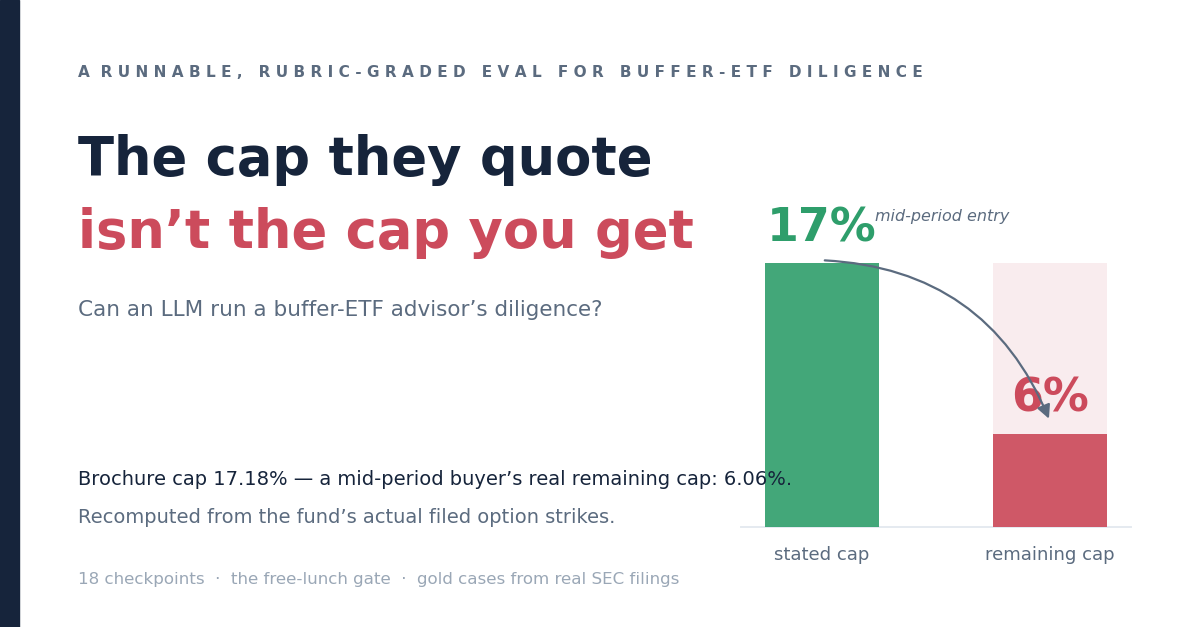
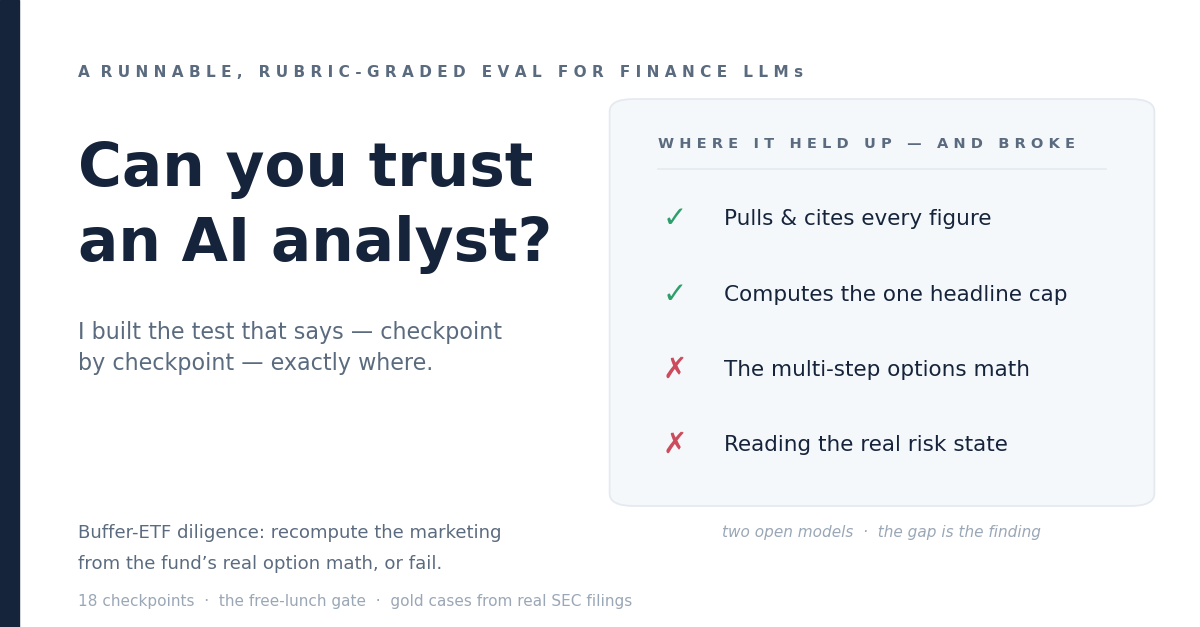
Content: drop the employer name; rework the eval-#2 hero into a distinct scorecard
Per the author's preference, the former employer is no longer named in any
public file — the article signature and the three repo docs now say "an
institutional ETF servicing platform" while keeping the credibility (the
change-management role, creation/redemption, derivatives processing).

The eval-#2 hero is reconceived so the sequel doesn't read as a repost of the
first: same brand (navy ink, green/crimson, the left accent bar) but a
SCORECARD composition instead of the eval-#1 two-bar GAP chart — "Can you
trust an AI analyst?" over four ✓/✗ rows that are the real finding (strong on
extraction + the single headline cap; breaks on the multi-step options math
and the risk-state read). Matches the reworked article's frame and is clearly
a different image at thumbnail scale.

diff --git a/assets/make_hero_eval2.py b/assets/make_hero_eval2.py
@@ -1,29 +1,30 @@
 #!/usr/bin/env python3
 """
-assets/make_hero_eval2.py -- the eval #2 headline graphic, sibling to make_hero.py.
+assets/make_hero_eval2.py -- the eval #2 headline graphic.
 Output: assets/hero-eval2.png (1200x627, LinkedIn-article cover / README banner ratio).
 
-Same visual grammar as eval #1's hero (the GAP is the diagnostic), applied to the PRODUCT
-instead of the model: a buffer ETF's brochure cap (17.18%, stated for a day-1 buyer) vs. the
-real REMAINING cap a mid-period buyer gets (6.06%, recomputed from the fund's actual filed
-option strikes). Numbers are the real KOCT anchor case (cases/koct-op2026-anchor.case.yaml:
-stated cap_gross 17.18%, C6 remaining_cap_gross 6.0598%).
+Shares eval #1's brand (navy ink, green/crimson semantics, the left accent bar) but a DIFFERENT
+composition -- a scorecard, not the two-bar GAP chart -- so the sequel reads as new at thumbnail
+scale. The message matches the reworked article: can you trust an AI analyst, and exactly where?
+The four rows are the real finding (taxonomy / PAPER §3.2): strong on extraction + the single
+headline calc, weak on the multi-step options math and the risk-state read.
 Run: python assets/make_hero_eval2.py
 """
 import os
 import matplotlib
 matplotlib.use("Agg")
 import matplotlib.pyplot as plt
-from matplotlib.patches import Rectangle, FancyArrowPatch
+from matplotlib.patches import Rectangle, FancyBboxPatch
 
 HERE = os.path.dirname(os.path.abspath(__file__))
 
 INK = "#16243B"       # deep navy (primary text)
 GRAY = "#5B6B7F"      # muted slate (secondary)
 LIGHT = "#9AA7B6"     # light gray (footer)
-GREEN = "#2E9E6B"     # "on the brochure / stated" (appealing but applies only at day 1)
-CRIMSON = "#CC4B5C"   # "what today's buyer gets" (the honest figure)
+GREEN = "#2E9E6B"     # holds up
+CRIMSON = "#CC4B5C"   # breaks
 RULE = "#E5EAF0"
+CARD = "#F5F8FB"      # scorecard fill
 
 fig = plt.figure(figsize=(12, 6.27), dpi=100)
 ax = fig.add_axes([0, 0, 1, 1]); ax.set_xlim(0, 1); ax.set_ylim(0, 1); ax.axis("off")
@@ -32,45 +33,39 @@ ax.add_patch(Rectangle((0, 0), 0.016, 1, color=INK, zorder=2))            # left
 
 # ---- left column: the words ----
 LX = 0.065
-ax.text(LX, 0.885, "A  R U N N A B L E ,   R U B R I C - G R A D E D   E V A L   F O R   B U F F E R - E T F   D I L I G E N C E",
+ax.text(LX, 0.885, "A  R U N N A B L E ,   R U B R I C - G R A D E D   E V A L   F O R   F I N A N C E   L L M s",
         fontsize=11.0, color=GRAY, weight="bold", va="center")
-ax.text(LX, 0.745, "The cap they quote", fontsize=38, color=INK, weight="bold", va="center")
-ax.text(LX, 0.628, "isn’t the cap you get", fontsize=38, color=CRIMSON, weight="bold", va="center")
-ax.text(LX, 0.505, "Can an LLM run a buffer-ETF advisor’s diligence?",
-        fontsize=15.5, color=GRAY, va="center")
-# caption
-ax.text(LX, 0.235, "Brochure cap 17.18% — a mid-period buyer’s real remaining cap: 6.06%.",
-        fontsize=14.0, color=INK, va="center")
-ax.text(LX, 0.175, "Recomputed from the fund’s actual filed option strikes.",
-        fontsize=14.0, color=GRAY, va="center")
-ax.text(LX, 0.075, "18 checkpoints  ·  the free-lunch gate  ·  gold cases from real SEC filings",
-        fontsize=12, color=LIGHT, va="center")
+ax.text(LX, 0.730, "Can you trust", fontsize=43, color=INK, weight="bold", va="center")
+ax.text(LX, 0.610, "an AI analyst?", fontsize=43, color=INK, weight="bold", va="center")
+ax.text(LX, 0.470, "I built the test that says — checkpoint", fontsize=16, color=GRAY, va="center")
+ax.text(LX, 0.420, "by checkpoint — exactly where.", fontsize=16, color=GRAY, va="center")
+ax.text(LX, 0.150, "Buffer-ETF diligence: recompute the marketing", fontsize=13, color=GRAY, va="center")
+ax.text(LX, 0.100, "from the fund’s real option math, or fail.", fontsize=13, color=GRAY, va="center")
+ax.text(LX, 0.040, "18 checkpoints  ·  the free-lunch gate  ·  gold cases from real SEC filings",
+        fontsize=11, color=LIGHT, va="center")
 
-# ---- right column: the two bars (the GAP) ----
-yb, ytop = 0.16, 0.60                       # baseline and axis-top (data y)
-VMAX = 18.0                                 # % axis so the 17.18 bar nearly fills
-def bar_top(v): return yb + (v / VMAX) * (ytop - yb)
-b1x, b2x, bw = 0.685, 0.875, 0.095
-v1, v2 = 17.18, 6.06
+# ---- right column: the scorecard ----
+CX0, CX1 = 0.520, 0.950
+ax.add_patch(FancyBboxPatch((CX0, 0.205), CX1 - CX0, 0.625, boxstyle="round,pad=0.012,rounding_size=0.02",
+             facecolor=CARD, edgecolor=RULE, lw=1.3, zorder=1))
+TX = CX0 + 0.028
+ax.text(TX, 0.770, "W H E R E   I T   H E L D   U P   —   A N D   B R O K E",
+        fontsize=10.5, color=GRAY, weight="bold", va="center")
+ax.plot([TX, CX1 - 0.028], [0.730, 0.730], color=RULE, lw=1.2, zorder=2)
 
-# faint "what the brochure implies" full bar behind the honest bar, to show the collapse
-ax.add_patch(Rectangle((b2x - bw/2, yb), bw, bar_top(v1) - yb, facecolor=CRIMSON, alpha=0.10, zorder=1))
-ax.add_patch(Rectangle((b1x - bw/2, yb), bw, bar_top(v1) - yb, facecolor=GREEN, alpha=0.90, zorder=2))
-ax.add_patch(Rectangle((b2x - bw/2, yb), bw, bar_top(v2) - yb, facecolor=CRIMSON, alpha=0.92, zorder=3))
+rows = [
+    (GREEN, "✓", "Pulls & cites every figure"),
+    (GREEN, "✓", "Computes the one headline cap"),
+    (CRIMSON, "✗", "The multi-step options math"),
+    (CRIMSON, "✗", "Reading the real risk state"),
+]
+ys = [0.650, 0.530, 0.410, 0.290]
+for (col, mark, label), y in zip(rows, ys):
+    ax.text(TX + 0.004, y, mark, fontsize=21, color=col, weight="bold", va="center", ha="left")
+    ax.text(TX + 0.055, y, label, fontsize=15.5, color=INK, va="center", ha="left")
 
-# drop arrow from the green top to the crimson top
-ax.add_patch(FancyArrowPatch((b1x, bar_top(v1) + 0.005), (b2x, bar_top(v2) + 0.02),
-             connectionstyle="arc3,rad=-0.32", arrowstyle="-|>,head_width=4,head_length=8",
-             color=GRAY, lw=1.6, zorder=4))
-ax.text((b1x + b2x)/2 + 0.005, bar_top(v1) + 0.075, "mid-period entry", fontsize=11.5,
-        color=GRAY, style="italic", ha="center", va="center")
-
-# big numbers + labels
-ax.text(b1x, bar_top(v1) + 0.055, "17%", fontsize=33, color=GREEN, weight="bold", ha="center", va="center")
-ax.text(b2x, bar_top(v2) + 0.055, "6%", fontsize=33, color=CRIMSON, weight="bold", ha="center", va="center")
-ax.text(b1x, yb - 0.045, "stated cap", fontsize=13, color=GRAY, ha="center", va="center")
-ax.text(b2x, yb - 0.045, "remaining cap", fontsize=13, color=GRAY, ha="center", va="center")
-ax.plot([b1x - bw/2 - 0.02, b2x + bw/2 + 0.02], [yb, yb], color=RULE, lw=1.4, zorder=1)
+ax.text((CX0 + CX1) / 2, 0.150, "two open models  ·  the gap is the finding",
+        fontsize=11, color=LIGHT, va="center", ha="center", style="italic")
 
 fig.savefig(os.path.join(HERE, "hero-eval2.png"), dpi=100, facecolor="white")
 print("wrote", os.path.join(HERE, "hero-eval2.png"))

diff --git a/content/linkedin-article-eval2.md b/content/linkedin-article-eval2.md
@@ -167,5 +167,6 @@ running the models, and finding where they break **is the job.** It's the one I 
 
 **Repo:** github.com/DimaMerc/finance-llm-evals · **Methodology paper** in the repo (`PAPER.md`).
 
-*Dmitry Krutous — I build evals for finance LLMs. ETF / derivatives domain expert (ex-BBH ETF
-servicing platform — creation/redemption, derivatives processing). MBA, PMP. Greater Boston.*
+*Dmitry Krutous — I build evals for finance LLMs. ETF / derivatives domain expert — I
+ran the change-management side of an institutional ETF servicing platform (creation/redemption,
+derivatives processing). MBA, PMP. Greater Boston.*

diff --git a/workflow/earnings-analysis.md b/workflow/earnings-analysis.md
@@ -10,8 +10,8 @@ first one-to-three hours after the release crosses the wire, the job is narrow
 and mechanical at the edges and judgmental in the middle: pin the print, reconcile
 the press release to the GAAP statements, do the desk math the way the desk does it,
 benchmark against consensus and guidance, and write a calibrated bottom line that a
-PM can act on. I ran the change-management side of an ETF servicing platform at
-Brown Brothers Harriman — creation/redemption, derivatives processing, the lifecycle
+PM can act on. I ran the change-management side of an institutional ETF servicing platform —
+creation/redemption, derivatives processing, the lifecycle
 plumbing where a thousands-vs-millions slip or a wrong fiscal-period label is not a
 rounding error but a break that has to be reconciled before anything downstream
 clears. That instinct is what this eval encodes: **the workflow is evaluated as a

diff --git a/rubric/rubric.md b/rubric/rubric.md
@@ -18,7 +18,7 @@
 When a company prints, the analyst's job in the first hours is a chain: pin the period and the
 scale, extract each figure off the right statement with a citation, redo the desk math, benchmark
 against consensus on a like-for-like basis, and write a bottom line a PM can act on. I ran the
-change-management side of an ETF servicing platform at Brown Brothers Harriman, where a
+change-management side of an institutional ETF servicing platform, where a
 thousands-vs-millions slip or a wrong fiscal-period label is not a rounding error — it is a break
 that has to be reconciled before anything downstream clears. **This rubric encodes that discipline:
 it scores the workflow checkpoint-by-checkpoint, so the headline number tells you *which step*

diff --git a/workflow/defined-outcome-analysis.md b/workflow/defined-outcome-analysis.md
@@ -10,7 +10,7 @@
 A buffer ETF is four FLEX option legs in a trust wrapper. Everything the marketing
 says — the cap, the buffer, the "defined outcome" — is a closed-form consequence of
 four strike prices, one initial reference level, and one fee. I ran the
-change-management side of an ETF servicing platform at Brown Brothers Harriman —
+change-management side of an institutional ETF servicing platform —
 creation/redemption, derivatives processing, the lifecycle plumbing where an options
 position that doesn't reconcile to its stated terms is a break, not a rounding error.
 Later, building an options-overlay analyzer, the signature bug I caught was the